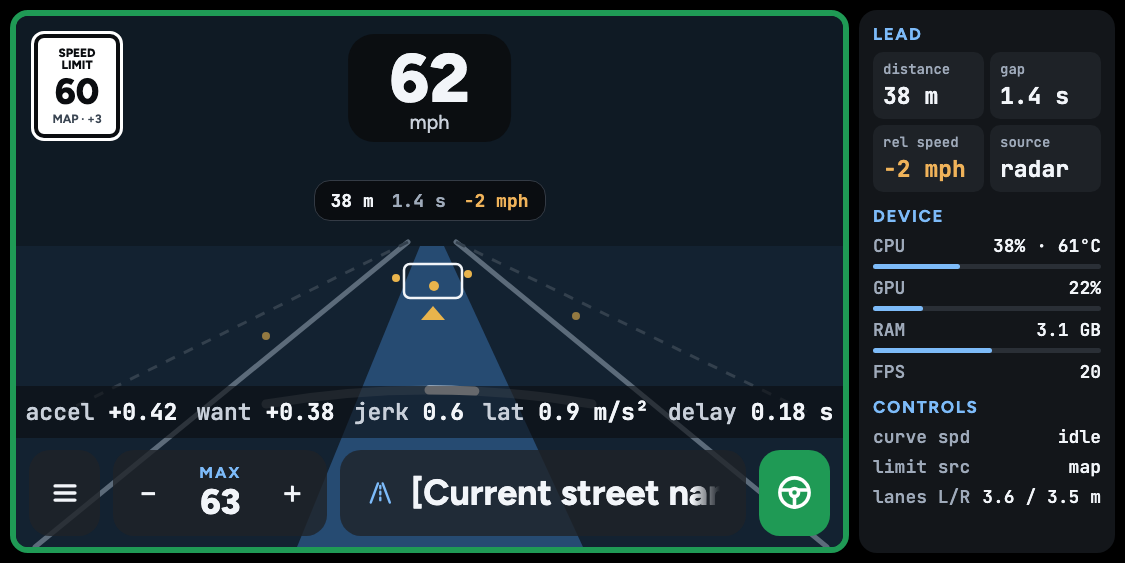
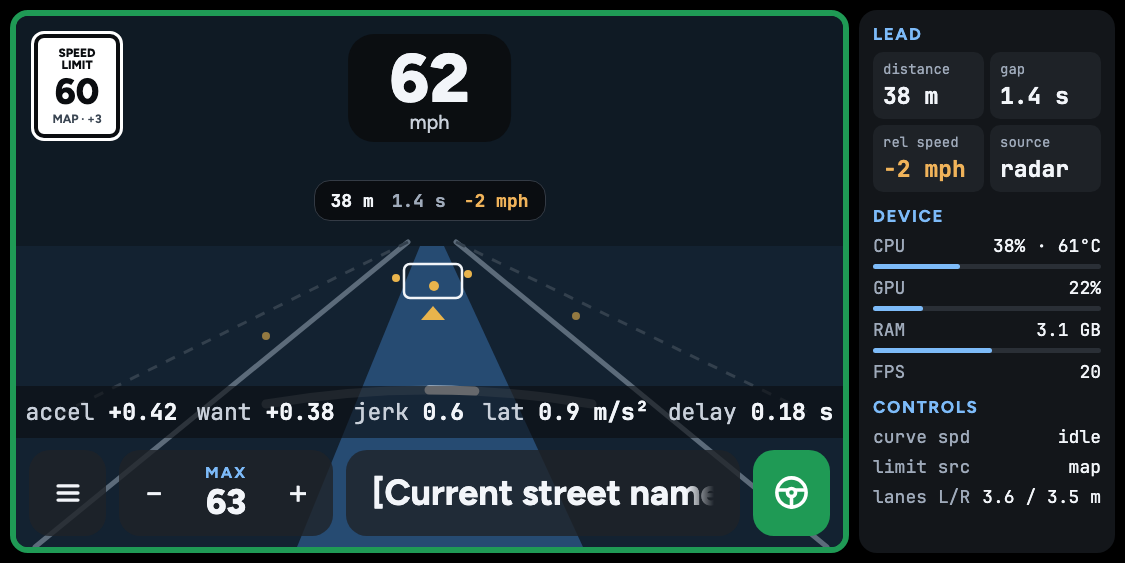
Give driving street names more room

diff --git a/selfdrive/ui/tandem/design/onroadwhereto.html b/selfdrive/ui/tandem/design/onroadwhereto.html
@@ -21,7 +21,7 @@ body{margin:0}
   <div style="background: #13161A; border-radius: 22px; padding: 18px 20px 20px; display: flex; flex-direction: column; gap: 12px;">
     <span style="font-size: 13px; font-weight: 700; letter-spacing: 1.6px; color: #7DBBF9;">NO ROUTE</span>
     <div style="height: 150px; border-radius: 16px; background: linear-gradient(#0F1A24, #14202C); position: relative; overflow: hidden; border: 5px solid #1F9A55;">
-      <div style="position: absolute; left: 0; right: 0; bottom: 0; height: 92px; display: flex; align-items: center; gap: 12px; padding: 0 14px;"><button type="button" aria-label="Menu" style="flex-shrink: 0; width: 74px; height: 74px; border-radius: 18px; border: 0; background: #1F2328CC; display: flex; align-items: center; justify-content: center;"><svg width="28" height="28" viewBox="0 0 24 24" fill="none" stroke="#F2F5F9" stroke-width="2.4" stroke-linecap="round" aria-hidden="true"><path d="M5 7h14M5 12h14M5 17h14"></path></svg></button><div style="flex-shrink: 0; height: 74px; border-radius: 18px; background: #1F2328CC; display: flex; align-items: center; gap: 4px; padding: 0 6px;"><span style="width: 52px; text-align: center; font-size: 28px;">−</span><div style="width: 70px; display: flex; flex-direction: column; align-items: center; line-height: 1;"><span style="font-size: 12px; font-weight: 700; letter-spacing: 1.4px; color: #7DBBF9;">MAX</span><span style="font-size: 30px; font-weight: 800; margin-top: 3px;">48</span></div><span style="width: 52px; text-align: center; font-size: 28px;">+</span></div><button type="button" aria-label="Where to?" style="flex-shrink: 0; width: 74px; height: 74px; border-radius: 18px; border: 0; background: #1F2E45; display: flex; align-items: center; justify-content: center;"><svg width="28" height="28" viewBox="0 0 24 24" fill="none" stroke="#7DBBF9" stroke-width="2.2" stroke-linecap="round" stroke-linejoin="round" aria-hidden="true"><path d="M3 11l18-8-8 18-2-8z"></path></svg></button><div style="flex-grow: 1; min-width: 0; height: 74px; border-radius: 18px; background: #1F2328CC; display: flex; align-items: center; gap: 14px; padding: 0 20px;"><span style="font-size: 22px; font-weight: 800; letter-spacing: 1px; color: #7DBBF9; background: #1F2E45; border-radius: 10px; padding: 6px 11px;">NE</span><span style="flex-grow: 1; display: flex; align-items: center; justify-content: center; gap: 12px;"><svg width="22" height="22" viewBox="0 0 24 24" fill="none" stroke="#7DBBF9" stroke-width="2" stroke-linecap="round" stroke-linejoin="round" aria-hidden="true"><path d="M4 20L10 4M20 20L14 4M12 6v2M12 11v2M12 16v2"></path></svg><span style="font-size: 22px; font-weight: 700;">N Main St</span></span><span style="display: flex; align-items: center; gap: 8px; font-size: 22px; font-weight: 700;"><svg width="24" height="24" viewBox="0 0 24 24" fill="none" stroke="#C9D0DA" stroke-width="2" stroke-linecap="round" stroke-linejoin="round" aria-hidden="true"><path d="M7 18a4 4 0 1 1 .9-7.9A5 5 0 0 1 17.5 12a3.5 3.5 0 0 1-.5 6z"></path></svg>52°</span></div><button type="button" aria-label="Disengage" style="flex-shrink: 0; width: 74px; height: 74px; border-radius: 18px; border: 0; background: #1F9A55; display: flex; align-items: center; justify-content: center;"><svg width="32" height="32" viewBox="0 0 24 24" fill="none" stroke="#FFFFFF" stroke-width="2.2" stroke-linecap="round" stroke-linejoin="round" aria-hidden="true"><circle cx="12" cy="12" r="9"></circle><circle cx="12" cy="12" r="2.5"></circle><path d="M3.5 10.5h6M14.5 10.5h6M12 14.5V21"></path></svg></button></div>
+      <div style="position: absolute; left: 0; right: 0; bottom: 0; height: 92px; display: flex; align-items: center; gap: 12px; padding: 0 14px;"><button type="button" aria-label="Menu" style="flex-shrink: 0; width: 74px; height: 74px; border-radius: 18px; border: 0; background: #1F2328CC; display: flex; align-items: center; justify-content: center;"><svg width="28" height="28" viewBox="0 0 24 24" fill="none" stroke="#F2F5F9" stroke-width="2.4" stroke-linecap="round" aria-hidden="true"><path d="M5 7h14M5 12h14M5 17h14"></path></svg></button><div style="flex-shrink: 0; height: 74px; border-radius: 18px; background: #1F2328CC; display: flex; align-items: center; gap: 4px; padding: 0 6px;"><span style="width: 52px; text-align: center; font-size: 28px;">−</span><div style="width: 70px; display: flex; flex-direction: column; align-items: center; line-height: 1;"><span style="font-size: 12px; font-weight: 700; letter-spacing: 1.4px; color: #7DBBF9;">MAX</span><span style="font-size: 30px; font-weight: 800; margin-top: 3px;">48</span></div><span style="width: 52px; text-align: center; font-size: 28px;">+</span></div><button type="button" aria-label="Where to?" style="flex-shrink: 0; width: 74px; height: 74px; border-radius: 18px; border: 0; background: #1F2E45; display: flex; align-items: center; justify-content: center;"><svg width="28" height="28" viewBox="0 0 24 24" fill="none" stroke="#7DBBF9" stroke-width="2.2" stroke-linecap="round" stroke-linejoin="round" aria-hidden="true"><path d="M3 11l18-8-8 18-2-8z"></path></svg></button><div style="flex-grow: 1; min-width: 0; height: 74px; border-radius: 18px; background: #1F2328CC; display: flex; align-items: center; gap: 14px; padding: 0 20px;"><span style="font-size: 22px; font-weight: 800; letter-spacing: 1px; color: #7DBBF9; background: #1F2E45; border-radius: 10px; padding: 6px 11px;">NE</span><span style="flex-grow: 1; display: flex; align-items: center; justify-content: center; gap: 12px;"><span style="font-size: 22px; font-weight: 700;">N Main St</span></span><span style="display: flex; align-items: center; gap: 8px; font-size: 22px; font-weight: 700;"><svg width="24" height="24" viewBox="0 0 24 24" fill="none" stroke="#C9D0DA" stroke-width="2" stroke-linecap="round" stroke-linejoin="round" aria-hidden="true"><path d="M7 18a4 4 0 1 1 .9-7.9A5 5 0 0 1 17.5 12a3.5 3.5 0 0 1-.5 6z"></path></svg>52°</span></div><button type="button" aria-label="Disengage" style="flex-shrink: 0; width: 74px; height: 74px; border-radius: 18px; border: 0; background: #1F9A55; display: flex; align-items: center; justify-content: center;"><svg width="32" height="32" viewBox="0 0 24 24" fill="none" stroke="#FFFFFF" stroke-width="2.2" stroke-linecap="round" stroke-linejoin="round" aria-hidden="true"><circle cx="12" cy="12" r="9"></circle><circle cx="12" cy="12" r="2.5"></circle><path d="M3.5 10.5h6M14.5 10.5h6M12 14.5V21"></path></svg></button></div>
     </div>
     <span style="font-size: 15px; color: #C9D0DA;">Tap to search a place, pick Home, Work or a favorite, or say it with voice typing. The compass, street and temperature keep their places.</span>
   </div>
@@ -29,7 +29,7 @@ body{margin:0}
   <div style="background: #13161A; border-radius: 22px; padding: 18px 20px 20px; display: flex; flex-direction: column; gap: 12px;">
     <span style="font-size: 13px; font-weight: 700; letter-spacing: 1.6px; color: #7DBBF9;">NAVIGATING</span>
     <div style="height: 150px; border-radius: 16px; background: linear-gradient(#0F1A24, #14202C); position: relative; overflow: hidden; border: 5px solid #1F9A55;">
-      <div style="position: absolute; left: 0; right: 0; bottom: 0; height: 92px; display: flex; align-items: center; gap: 12px; padding: 0 14px;"><button type="button" aria-label="Menu" style="flex-shrink: 0; width: 74px; height: 74px; border-radius: 18px; border: 0; background: #1F2328CC; display: flex; align-items: center; justify-content: center;"><svg width="28" height="28" viewBox="0 0 24 24" fill="none" stroke="#F2F5F9" stroke-width="2.4" stroke-linecap="round" aria-hidden="true"><path d="M5 7h14M5 12h14M5 17h14"></path></svg></button><div style="flex-shrink: 0; height: 74px; border-radius: 18px; background: #1F2328CC; display: flex; align-items: center; gap: 4px; padding: 0 6px;"><span style="width: 52px; text-align: center; font-size: 28px;">−</span><div style="width: 70px; display: flex; flex-direction: column; align-items: center; line-height: 1;"><span style="font-size: 12px; font-weight: 700; letter-spacing: 1.4px; color: #7DBBF9;">MAX</span><span style="font-size: 30px; font-weight: 800; margin-top: 3px;">48</span></div><span style="width: 52px; text-align: center; font-size: 28px;">+</span></div><div style="flex-grow: 1; min-width: 0; height: 74px; border-radius: 18px; background: #1F2328CC; display: flex; align-items: center; gap: 22px; padding: 0 12px 0 20px;"><span style="font-size: 22px; font-weight: 800; letter-spacing: 1px; color: #7DBBF9; background: #1F2E45; border-radius: 10px; padding: 6px 11px;">NE</span><div style="display: flex; flex-direction: column; gap: 2px;"><span style="font-size: 12px; font-weight: 700; letter-spacing: 1.4px; color: #8FA0B5;">ARRIVE</span><span style="font-size: 22px; font-weight: 700;">4:52 PM</span></div><div style="display: flex; flex-direction: column; gap: 2px;"><span style="font-size: 12px; font-weight: 700; letter-spacing: 1.4px; color: #8FA0B5;">LEFT</span><span style="font-size: 22px; font-weight: 700;">12 min · 8.4 mi</span></div><span style="width: 2px; height: 36px; background: #2A2F36;"></span><span style="flex-grow: 1; display: flex; align-items: center; gap: 12px; min-width: 0;"><svg width="22" height="22" viewBox="0 0 24 24" fill="none" stroke="#7DBBF9" stroke-width="2" stroke-linecap="round" stroke-linejoin="round" aria-hidden="true"><path d="M4 20L10 4M20 20L14 4M12 6v2M12 11v2M12 16v2"></path></svg><span style="font-size: 22px; font-weight: 700; white-space: nowrap; overflow: hidden; text-overflow: ellipsis;">SE Hawthorne Blvd</span></span><span style="height: 52px; padding: 0 18px; border-radius: 14px; background: #3A1D22; color: #FF9AA2; font-size: 17px; font-weight: 700; display: flex; align-items: center;">End route</span></div><button type="button" aria-label="Disengage" style="flex-shrink: 0; width: 74px; height: 74px; border-radius: 18px; border: 0; background: #1F9A55; display: flex; align-items: center; justify-content: center;"><svg width="32" height="32" viewBox="0 0 24 24" fill="none" stroke="#FFFFFF" stroke-width="2.2" stroke-linecap="round" stroke-linejoin="round" aria-hidden="true"><circle cx="12" cy="12" r="9"></circle><circle cx="12" cy="12" r="2.5"></circle><path d="M3.5 10.5h6M14.5 10.5h6M12 14.5V21"></path></svg></button></div>
+      <div style="position: absolute; left: 0; right: 0; bottom: 0; height: 92px; display: flex; align-items: center; gap: 12px; padding: 0 14px;"><button type="button" aria-label="Menu" style="flex-shrink: 0; width: 74px; height: 74px; border-radius: 18px; border: 0; background: #1F2328CC; display: flex; align-items: center; justify-content: center;"><svg width="28" height="28" viewBox="0 0 24 24" fill="none" stroke="#F2F5F9" stroke-width="2.4" stroke-linecap="round" aria-hidden="true"><path d="M5 7h14M5 12h14M5 17h14"></path></svg></button><div style="flex-shrink: 0; height: 74px; border-radius: 18px; background: #1F2328CC; display: flex; align-items: center; gap: 4px; padding: 0 6px;"><span style="width: 52px; text-align: center; font-size: 28px;">−</span><div style="width: 70px; display: flex; flex-direction: column; align-items: center; line-height: 1;"><span style="font-size: 12px; font-weight: 700; letter-spacing: 1.4px; color: #7DBBF9;">MAX</span><span style="font-size: 30px; font-weight: 800; margin-top: 3px;">48</span></div><span style="width: 52px; text-align: center; font-size: 28px;">+</span></div><div style="flex-grow: 1; min-width: 0; height: 74px; border-radius: 18px; background: #1F2328CC; display: flex; align-items: center; gap: 22px; padding: 0 12px 0 20px;"><span style="font-size: 22px; font-weight: 800; letter-spacing: 1px; color: #7DBBF9; background: #1F2E45; border-radius: 10px; padding: 6px 11px;">NE</span><div style="display: flex; flex-direction: column; gap: 2px;"><span style="font-size: 12px; font-weight: 700; letter-spacing: 1.4px; color: #8FA0B5;">ARRIVE</span><span style="font-size: 22px; font-weight: 700;">4:52 PM</span></div><div style="display: flex; flex-direction: column; gap: 2px;"><span style="font-size: 12px; font-weight: 700; letter-spacing: 1.4px; color: #8FA0B5;">LEFT</span><span style="font-size: 22px; font-weight: 700;">12 min · 8.4 mi</span></div><span style="width: 2px; height: 36px; background: #2A2F36;"></span><span style="flex-grow: 1; display: flex; align-items: center; gap: 12px; min-width: 0;"><span style="font-size: 22px; font-weight: 700; white-space: nowrap; overflow: hidden; text-overflow: ellipsis;">SE Hawthorne Blvd</span></span><span style="height: 52px; padding: 0 18px; border-radius: 14px; background: #3A1D22; color: #FF9AA2; font-size: 17px; font-weight: 700; display: flex; align-items: center;">End route</span></div><button type="button" aria-label="Disengage" style="flex-shrink: 0; width: 74px; height: 74px; border-radius: 18px; border: 0; background: #1F9A55; display: flex; align-items: center; justify-content: center;"><svg width="32" height="32" viewBox="0 0 24 24" fill="none" stroke="#FFFFFF" stroke-width="2.2" stroke-linecap="round" stroke-linejoin="round" aria-hidden="true"><circle cx="12" cy="12" r="9"></circle><circle cx="12" cy="12" r="2.5"></circle><path d="M3.5 10.5h6M14.5 10.5h6M12 14.5V21"></path></svg></button></div>
     </div>
     <span style="font-size: 15px; color: #C9D0DA;">No Where to? button while navigating: the bar keeps its room for arrival, time left, the street and End route.</span>
   </div>

diff --git a/selfdrive/ui/tandem/design/onroadnav.html b/selfdrive/ui/tandem/design/onroadnav.html
@@ -71,7 +71,7 @@ a{color:#7DBBF9}a:hover{color:#A9D3FB}
         <div style="display: flex; flex-direction: column; gap: 3px; flex-shrink: 0; white-space: nowrap;"><span style="font-size: 12px; font-weight: 700; letter-spacing: 1.4px; color: #8FA0B5;">ARRIVE</span><span style="font-size: 22px; font-weight: 700;">[ETA]</span></div>
         <div style="display: flex; flex-direction: column; gap: 3px; flex-shrink: 0; white-space: nowrap;"><span style="font-size: 12px; font-weight: 700; letter-spacing: 1.4px; color: #8FA0B5;">LEFT</span><span style="font-size: 22px; font-weight: 700;">[min] · [mi]</span></div>
         <div style="width: 2px; height: 37px; background: #23272E; flex-shrink: 0;"></div>
-        <div style="flex-grow: 1; min-width: 0; display: flex; align-items: center; gap: 12px;"><svg width="28" height="28" viewBox="0 0 24 24" fill="none" stroke="#7DBBF9" stroke-width="2" stroke-linecap="round" stroke-linejoin="round" aria-hidden="true" style="flex-shrink: 0;"><path d="M4 20L10 4M20 20L14 4M12 6v2M12 11v2M12 16v2"></path></svg><span class="street" style="font-size: 28px; font-weight: 700;"><span>[Current street name]</span></span></div>
+        <div style="flex-grow: 1; min-width: 0; display: flex; align-items: center; gap: 12px;"><span class="street" style="font-size: 28px; font-weight: 700;"><span>[Current street name]</span></span></div>
         <a href="destinations.html" style="flex-shrink: 0; white-space: nowrap; text-decoration: none; height: 52px; padding: 0 20px; border-radius: 14px; background: #3A2026; color: #F2A7B1; font-size: 17px; font-weight: 700; display: flex; align-items: center;">End route</a>
       </div>
       <button type="button" aria-label="Disengage" style="flex-shrink: 0; width: 74px; height: 74px; border-radius: 18px; border: 0; background: #1F9A55; display: flex; align-items: center; justify-content: center;"><svg width="32" height="32" viewBox="0 0 24 24" fill="none" stroke="#FFFFFF" stroke-width="2.2" stroke-linecap="round" stroke-linejoin="round" aria-hidden="true"><circle cx="12" cy="12" r="9"></circle><circle cx="12" cy="12" r="2.5"></circle><path d="M3.5 10.5h6M14.5 10.5h6M12 14.5V21"></path></svg></button>

diff --git a/selfdrive/ui/tandem/design/valhalla-onroad-fresh.html b/selfdrive/ui/tandem/design/valhalla-onroad-fresh.html
@@ -61,7 +61,7 @@ a{color:#7DBBF9}a:hover{color:#A9D3FB}
         <div style="display: flex; flex-direction: column; gap: 3px;"><span style="font-size: 12px; font-weight: 700; letter-spacing: 1.4px; color: #8FA0B5;">ARRIVE</span><span style="font-size: 22px; font-weight: 700;">5:18 PM</span></div>
         <div style="display: flex; flex-direction: column; gap: 3px;"><span style="font-size: 12px; font-weight: 700; letter-spacing: 1.4px; color: #8FA0B5;">LEFT</span><span style="font-size: 22px; font-weight: 700;">12 min · 8.4 mi</span></div>
         <div style="width: 2px; height: 37px; background: #23272E; flex-shrink: 0;"></div>
-        <div style="flex-grow: 1; min-width: 0; display: flex; align-items: center; gap: 12px;"><svg width="22" height="22" viewBox="0 0 24 24" fill="none" stroke="#7DBBF9" stroke-width="2" stroke-linecap="round" stroke-linejoin="round" aria-hidden="true" style="flex-shrink: 0;"><path d="M4 20L10 4M20 20L14 4M12 6v2M12 11v2M12 16v2"></path></svg><span style="font-size: 22px; font-weight: 700; white-space: nowrap; overflow: hidden; text-overflow: ellipsis;">Market Street</span></div>
+        <div style="flex-grow: 1; min-width: 0; display: flex; align-items: center; gap: 12px;"><span style="font-size: 22px; font-weight: 700; white-space: nowrap; overflow: hidden; text-overflow: ellipsis;">Market Street</span></div>
         <a href="destinations.html" style="text-decoration: none; height: 52px; padding: 0 20px; border-radius: 14px; background: #3A2026; color: #F2A7B1; font-size: 17px; font-weight: 700; display: flex; align-items: center;">End route</a>
       </div>
       <button type="button" aria-label="Disengage" style="width: 74px; height: 74px; border-radius: 18px; border: 0; background: #1F9A55; display: flex; align-items: center; justify-content: center;"><svg width="32" height="32" viewBox="0 0 24 24" fill="none" stroke="#FFFFFF" stroke-width="2.2" stroke-linecap="round" stroke-linejoin="round" aria-hidden="true"><circle cx="12" cy="12" r="9"></circle><circle cx="12" cy="12" r="2.5"></circle><path d="M3.5 10.5h6M14.5 10.5h6M12 14.5V21"></path></svg></button>

diff --git a/selfdrive/ui/tandem/design/valhalla-onroad-stale-card.html b/selfdrive/ui/tandem/design/valhalla-onroad-stale-card.html
@@ -54,7 +54,7 @@ a{color:#7DBBF9}a:hover{color:#A9D3FB}
         <div style="display: flex; flex-direction: column; gap: 3px;"><span style="font-size: 12px; font-weight: 700; letter-spacing: 1.4px; color: #8FA0B5;">ARRIVE</span><span style="font-size: 22px; font-weight: 700;">5:18 PM</span></div>
         <div style="display: flex; flex-direction: column; gap: 3px;"><span style="font-size: 12px; font-weight: 700; letter-spacing: 1.4px; color: #8FA0B5;">LEFT</span><span style="font-size: 22px; font-weight: 700;">12 min · 8.4 mi</span></div>
         <div style="width: 2px; height: 37px; background: #23272E; flex-shrink: 0;"></div>
-        <div style="flex-grow: 1; min-width: 0; display: flex; align-items: center; gap: 12px;"><svg width="22" height="22" viewBox="0 0 24 24" fill="none" stroke="#7DBBF9" stroke-width="2" stroke-linecap="round" stroke-linejoin="round" aria-hidden="true" style="flex-shrink: 0;"><path d="M4 20L10 4M20 20L14 4M12 6v2M12 11v2M12 16v2"></path></svg><span style="font-size: 22px; font-weight: 700; white-space: nowrap; overflow: hidden; text-overflow: ellipsis;">Market Street</span></div>
+        <div style="flex-grow: 1; min-width: 0; display: flex; align-items: center; gap: 12px;"><span style="font-size: 22px; font-weight: 700; white-space: nowrap; overflow: hidden; text-overflow: ellipsis;">Market Street</span></div>
         <a href="destinations.html" style="text-decoration: none; height: 52px; padding: 0 20px; border-radius: 14px; background: #3A2026; color: #F2A7B1; font-size: 17px; font-weight: 700; display: flex; align-items: center;">End route</a>
       </div>
       <button type="button" aria-label="Disengage" style="width: 74px; height: 74px; border-radius: 18px; border: 0; background: #1F9A55; display: flex; align-items: center; justify-content: center;"><svg width="32" height="32" viewBox="0 0 24 24" fill="none" stroke="#FFFFFF" stroke-width="2.2" stroke-linecap="round" stroke-linejoin="round" aria-hidden="true"><circle cx="12" cy="12" r="9"></circle><circle cx="12" cy="12" r="2.5"></circle><path d="M3.5 10.5h6M14.5 10.5h6M12 14.5V21"></path></svg></button>

diff --git a/selfdrive/ui/tandem/design/valhalla2-chip-gps.html b/selfdrive/ui/tandem/design/valhalla2-chip-gps.html
@@ -55,7 +55,7 @@ a{color:#7DBBF9}a:hover{color:#A9D3FB}
         <div style="display: flex; flex-direction: column; gap: 3px;"><span style="font-size: 12px; font-weight: 700; letter-spacing: 1.4px; color: #8FA0B5;">ARRIVE</span><span style="font-size: 22px; font-weight: 700;">5:18 PM</span></div>
         <div style="display: flex; flex-direction: column; gap: 3px;"><span style="font-size: 12px; font-weight: 700; letter-spacing: 1.4px; color: #8FA0B5;">LEFT</span><span style="font-size: 22px; font-weight: 700;">12 min · 8.4 mi</span></div>
         <div style="width: 2px; height: 37px; background: #23272E; flex-shrink: 0;"></div>
-        <div style="flex-grow: 1; min-width: 0; display: flex; align-items: center; gap: 12px;"><svg width="22" height="22" viewBox="0 0 24 24" fill="none" stroke="#7DBBF9" stroke-width="2" stroke-linecap="round" stroke-linejoin="round" aria-hidden="true" style="flex-shrink: 0;"><path d="M4 20L10 4M20 20L14 4M12 6v2M12 11v2M12 16v2"></path></svg><span style="font-size: 22px; font-weight: 700; white-space: nowrap; overflow: hidden; text-overflow: ellipsis;">Market Street</span></div>
+        <div style="flex-grow: 1; min-width: 0; display: flex; align-items: center; gap: 12px;"><span style="font-size: 22px; font-weight: 700; white-space: nowrap; overflow: hidden; text-overflow: ellipsis;">Market Street</span></div>
         <a href="destinations.html" style="text-decoration: none; height: 52px; padding: 0 20px; border-radius: 14px; background: #3A2026; color: #F2A7B1; font-size: 17px; font-weight: 700; display: flex; align-items: center;">End route</a>
       </div>
       <button type="button" aria-label="Disengage" style="width: 74px; height: 74px; border-radius: 18px; border: 0; background: #1F9A55; display: flex; align-items: center; justify-content: center;"><svg width="32" height="32" viewBox="0 0 24 24" fill="none" stroke="#FFFFFF" stroke-width="2.2" stroke-linecap="round" stroke-linejoin="round" aria-hidden="true"><circle cx="12" cy="12" r="9"></circle><circle cx="12" cy="12" r="2.5"></circle><path d="M3.5 10.5h6M14.5 10.5h6M12 14.5V21"></path></svg></button>

diff --git a/selfdrive/ui/tandem/design/valhalla2-chip-offline-fallback.html b/selfdrive/ui/tandem/design/valhalla2-chip-offline-fallback.html
@@ -62,7 +62,7 @@ a{color:#7DBBF9}a:hover{color:#A9D3FB}
         <div style="display: flex; flex-direction: column; gap: 3px;"><span style="font-size: 12px; font-weight: 700; letter-spacing: 1.4px; color: #8FA0B5;">ARRIVE</span><span style="font-size: 22px; font-weight: 700;">5:18 PM</span></div>
         <div style="display: flex; flex-direction: column; gap: 3px;"><span style="font-size: 12px; font-weight: 700; letter-spacing: 1.4px; color: #8FA0B5;">LEFT</span><span style="font-size: 22px; font-weight: 700;">12 min · 8.4 mi</span></div>
         <div style="width: 2px; height: 37px; background: #23272E; flex-shrink: 0;"></div>
-        <div style="flex-grow: 1; min-width: 0; display: flex; align-items: center; gap: 12px;"><svg width="22" height="22" viewBox="0 0 24 24" fill="none" stroke="#7DBBF9" stroke-width="2" stroke-linecap="round" stroke-linejoin="round" aria-hidden="true" style="flex-shrink: 0;"><path d="M4 20L10 4M20 20L14 4M12 6v2M12 11v2M12 16v2"></path></svg><span style="font-size: 22px; font-weight: 700; white-space: nowrap; overflow: hidden; text-overflow: ellipsis;">Market Street</span></div>
+        <div style="flex-grow: 1; min-width: 0; display: flex; align-items: center; gap: 12px;"><span style="font-size: 22px; font-weight: 700; white-space: nowrap; overflow: hidden; text-overflow: ellipsis;">Market Street</span></div>
         <a href="destinations.html" style="text-decoration: none; height: 52px; padding: 0 20px; border-radius: 14px; background: #3A2026; color: #F2A7B1; font-size: 17px; font-weight: 700; display: flex; align-items: center;">End route</a>
       </div>
       <button type="button" aria-label="Disengage" style="width: 74px; height: 74px; border-radius: 18px; border: 0; background: #1F9A55; display: flex; align-items: center; justify-content: center;"><svg width="32" height="32" viewBox="0 0 24 24" fill="none" stroke="#FFFFFF" stroke-width="2.2" stroke-linecap="round" stroke-linejoin="round" aria-hidden="true"><circle cx="12" cy="12" r="9"></circle><circle cx="12" cy="12" r="2.5"></circle><path d="M3.5 10.5h6M14.5 10.5h6M12 14.5V21"></path></svg></button>

diff --git a/selfdrive/ui/tandem/design/valhalla2-chip-online-fallback.html b/selfdrive/ui/tandem/design/valhalla2-chip-online-fallback.html
@@ -62,7 +62,7 @@ a{color:#7DBBF9}a:hover{color:#A9D3FB}
         <div style="display: flex; flex-direction: column; gap: 3px;"><span style="font-size: 12px; font-weight: 700; letter-spacing: 1.4px; color: #8FA0B5;">ARRIVE</span><span style="font-size: 22px; font-weight: 700;">5:18 PM</span></div>
         <div style="display: flex; flex-direction: column; gap: 3px;"><span style="font-size: 12px; font-weight: 700; letter-spacing: 1.4px; color: #8FA0B5;">LEFT</span><span style="font-size: 22px; font-weight: 700;">12 min · 8.4 mi</span></div>
         <div style="width: 2px; height: 37px; background: #23272E; flex-shrink: 0;"></div>
-        <div style="flex-grow: 1; min-width: 0; display: flex; align-items: center; gap: 12px;"><svg width="22" height="22" viewBox="0 0 24 24" fill="none" stroke="#7DBBF9" stroke-width="2" stroke-linecap="round" stroke-linejoin="round" aria-hidden="true" style="flex-shrink: 0;"><path d="M4 20L10 4M20 20L14 4M12 6v2M12 11v2M12 16v2"></path></svg><span style="font-size: 22px; font-weight: 700; white-space: nowrap; overflow: hidden; text-overflow: ellipsis;">Market Street</span></div>
+        <div style="flex-grow: 1; min-width: 0; display: flex; align-items: center; gap: 12px;"><span style="font-size: 22px; font-weight: 700; white-space: nowrap; overflow: hidden; text-overflow: ellipsis;">Market Street</span></div>
         <a href="destinations.html" style="text-decoration: none; height: 52px; padding: 0 20px; border-radius: 14px; background: #3A2026; color: #F2A7B1; font-size: 17px; font-weight: 700; display: flex; align-items: center;">End route</a>
       </div>
       <button type="button" aria-label="Disengage" style="width: 74px; height: 74px; border-radius: 18px; border: 0; background: #1F9A55; display: flex; align-items: center; justify-content: center;"><svg width="32" height="32" viewBox="0 0 24 24" fill="none" stroke="#FFFFFF" stroke-width="2.2" stroke-linecap="round" stroke-linejoin="round" aria-hidden="true"><circle cx="12" cy="12" r="9"></circle><circle cx="12" cy="12" r="2.5"></circle><path d="M3.5 10.5h6M14.5 10.5h6M12 14.5V21"></path></svg></button>

diff --git a/selfdrive/ui/tandem/design/valhalla2-chip-recalculate.html b/selfdrive/ui/tandem/design/valhalla2-chip-recalculate.html
@@ -55,7 +55,7 @@ a{color:#7DBBF9}a:hover{color:#A9D3FB}
         <div style="display: flex; flex-direction: column; gap: 3px;"><span style="font-size: 12px; font-weight: 700; letter-spacing: 1.4px; color: #8FA0B5;">ARRIVE</span><span style="font-size: 22px; font-weight: 700;">5:18 PM</span></div>
         <div style="display: flex; flex-direction: column; gap: 3px;"><span style="font-size: 12px; font-weight: 700; letter-spacing: 1.4px; color: #8FA0B5;">LEFT</span><span style="font-size: 22px; font-weight: 700;">12 min · 8.4 mi</span></div>
         <div style="width: 2px; height: 37px; background: #23272E; flex-shrink: 0;"></div>
-        <div style="flex-grow: 1; min-width: 0; display: flex; align-items: center; gap: 12px;"><svg width="22" height="22" viewBox="0 0 24 24" fill="none" stroke="#7DBBF9" stroke-width="2" stroke-linecap="round" stroke-linejoin="round" aria-hidden="true" style="flex-shrink: 0;"><path d="M4 20L10 4M20 20L14 4M12 6v2M12 11v2M12 16v2"></path></svg><span style="font-size: 22px; font-weight: 700; white-space: nowrap; overflow: hidden; text-overflow: ellipsis;">Market Street</span></div>
+        <div style="flex-grow: 1; min-width: 0; display: flex; align-items: center; gap: 12px;"><span style="font-size: 22px; font-weight: 700; white-space: nowrap; overflow: hidden; text-overflow: ellipsis;">Market Street</span></div>
         <a href="destinations.html" style="text-decoration: none; height: 52px; padding: 0 20px; border-radius: 14px; background: #3A2026; color: #F2A7B1; font-size: 17px; font-weight: 700; display: flex; align-items: center;">End route</a>
       </div>
       <button type="button" aria-label="Disengage" style="width: 74px; height: 74px; border-radius: 18px; border: 0; background: #1F9A55; display: flex; align-items: center; justify-content: center;"><svg width="32" height="32" viewBox="0 0 24 24" fill="none" stroke="#FFFFFF" stroke-width="2.2" stroke-linecap="round" stroke-linejoin="round" aria-hidden="true"><circle cx="12" cy="12" r="9"></circle><circle cx="12" cy="12" r="2.5"></circle><path d="M3.5 10.5h6M14.5 10.5h6M12 14.5V21"></path></svg></button>

diff --git a/selfdrive/ui/tandem/design/valhalla2-chip-stack.html b/selfdrive/ui/tandem/design/valhalla2-chip-stack.html
@@ -55,7 +55,7 @@ a{color:#7DBBF9}a:hover{color:#A9D3FB}
         <div style="display: flex; flex-direction: column; gap: 3px;"><span style="font-size: 12px; font-weight: 700; letter-spacing: 1.4px; color: #8FA0B5;">ARRIVE</span><span style="font-size: 22px; font-weight: 700;">5:18 PM</span></div>
         <div style="display: flex; flex-direction: column; gap: 3px;"><span style="font-size: 12px; font-weight: 700; letter-spacing: 1.4px; color: #8FA0B5;">LEFT</span><span style="font-size: 22px; font-weight: 700;">12 min · 8.4 mi</span></div>
         <div style="width: 2px; height: 37px; background: #23272E; flex-shrink: 0;"></div>
-        <div style="flex-grow: 1; min-width: 0; display: flex; align-items: center; gap: 12px;"><svg width="22" height="22" viewBox="0 0 24 24" fill="none" stroke="#7DBBF9" stroke-width="2" stroke-linecap="round" stroke-linejoin="round" aria-hidden="true" style="flex-shrink: 0;"><path d="M4 20L10 4M20 20L14 4M12 6v2M12 11v2M12 16v2"></path></svg><span style="font-size: 22px; font-weight: 700; white-space: nowrap; overflow: hidden; text-overflow: ellipsis;">Market Street</span></div>
+        <div style="flex-grow: 1; min-width: 0; display: flex; align-items: center; gap: 12px;"><span style="font-size: 22px; font-weight: 700; white-space: nowrap; overflow: hidden; text-overflow: ellipsis;">Market Street</span></div>
         <a href="destinations.html" style="text-decoration: none; height: 52px; padding: 0 20px; border-radius: 14px; background: #3A2026; color: #F2A7B1; font-size: 17px; font-weight: 700; display: flex; align-items: center;">End route</a>
       </div>
       <button type="button" aria-label="Disengage" style="width: 74px; height: 74px; border-radius: 18px; border: 0; background: #1F9A55; display: flex; align-items: center; justify-content: center;"><svg width="32" height="32" viewBox="0 0 24 24" fill="none" stroke="#FFFFFF" stroke-width="2.2" stroke-linecap="round" stroke-linejoin="round" aria-hidden="true"><circle cx="12" cy="12" r="9"></circle><circle cx="12" cy="12" r="2.5"></circle><path d="M3.5 10.5h6M14.5 10.5h6M12 14.5V21"></path></svg></button>

diff --git a/selfdrive/ui/tandem/design/valhalla2-chip-first-route.html b/selfdrive/ui/tandem/design/valhalla2-chip-first-route.html
@@ -55,7 +55,7 @@ a{color:#7DBBF9}a:hover{color:#A9D3FB}
         <div style="display: flex; flex-direction: column; gap: 3px;"><span style="font-size: 12px; font-weight: 700; letter-spacing: 1.4px; color: #8FA0B5;">ARRIVE</span><span style="font-size: 22px; font-weight: 700;">–</span></div>
         <div style="display: flex; flex-direction: column; gap: 3px;"><span style="font-size: 12px; font-weight: 700; letter-spacing: 1.4px; color: #8FA0B5;">LEFT</span><span style="font-size: 22px; font-weight: 700;">–</span></div>
         <div style="width: 2px; height: 37px; background: #23272E; flex-shrink: 0;"></div>
-        <div style="flex-grow: 1; min-width: 0; display: flex; align-items: center; gap: 12px;"><svg width="22" height="22" viewBox="0 0 24 24" fill="none" stroke="#7DBBF9" stroke-width="2" stroke-linecap="round" stroke-linejoin="round" aria-hidden="true" style="flex-shrink: 0;"><path d="M4 20L10 4M20 20L14 4M12 6v2M12 11v2M12 16v2"></path></svg><span style="font-size: 22px; font-weight: 700; white-space: nowrap; overflow: hidden; text-overflow: ellipsis;">Market Street</span></div>
+        <div style="flex-grow: 1; min-width: 0; display: flex; align-items: center; gap: 12px;"><span style="font-size: 22px; font-weight: 700; white-space: nowrap; overflow: hidden; text-overflow: ellipsis;">Market Street</span></div>
         <a href="destinations.html" style="text-decoration: none; height: 52px; padding: 0 20px; border-radius: 14px; background: #3A2026; color: #F2A7B1; font-size: 17px; font-weight: 700; display: flex; align-items: center;">End route</a>
       </div>
       <button type="button" aria-label="Disengage" style="width: 74px; height: 74px; border-radius: 18px; border: 0; background: #1F9A55; display: flex; align-items: center; justify-content: center;"><svg width="32" height="32" viewBox="0 0 24 24" fill="none" stroke="#FFFFFF" stroke-width="2.2" stroke-linecap="round" stroke-linejoin="round" aria-hidden="true"><circle cx="12" cy="12" r="9"></circle><circle cx="12" cy="12" r="2.5"></circle><path d="M3.5 10.5h6M14.5 10.5h6M12 14.5V21"></path></svg></button>

diff --git a/selfdrive/ui/tandem/design/valhalla2-chip-strict-unavailable.html b/selfdrive/ui/tandem/design/valhalla2-chip-strict-unavailable.html
@@ -55,7 +55,7 @@ a{color:#7DBBF9}a:hover{color:#A9D3FB}
         <div style="display: flex; flex-direction: column; gap: 3px;"><span style="font-size: 12px; font-weight: 700; letter-spacing: 1.4px; color: #8FA0B5;">ARRIVE</span><span style="font-size: 22px; font-weight: 700;">–</span></div>
         <div style="display: flex; flex-direction: column; gap: 3px;"><span style="font-size: 12px; font-weight: 700; letter-spacing: 1.4px; color: #8FA0B5;">LEFT</span><span style="font-size: 22px; font-weight: 700;">–</span></div>
         <div style="width: 2px; height: 37px; background: #23272E; flex-shrink: 0;"></div>
-        <div style="flex-grow: 1; min-width: 0; display: flex; align-items: center; gap: 12px;"><svg width="22" height="22" viewBox="0 0 24 24" fill="none" stroke="#7DBBF9" stroke-width="2" stroke-linecap="round" stroke-linejoin="round" aria-hidden="true" style="flex-shrink: 0;"><path d="M4 20L10 4M20 20L14 4M12 6v2M12 11v2M12 16v2"></path></svg><span style="font-size: 22px; font-weight: 700; white-space: nowrap; overflow: hidden; text-overflow: ellipsis;">Market Street</span></div>
+        <div style="flex-grow: 1; min-width: 0; display: flex; align-items: center; gap: 12px;"><span style="font-size: 22px; font-weight: 700; white-space: nowrap; overflow: hidden; text-overflow: ellipsis;">Market Street</span></div>
         <a href="destinations.html" style="text-decoration: none; height: 52px; padding: 0 20px; border-radius: 14px; background: #3A2026; color: #F2A7B1; font-size: 17px; font-weight: 700; display: flex; align-items: center;">End route</a>
       </div>
       <button type="button" aria-label="Disengage" style="width: 74px; height: 74px; border-radius: 18px; border: 0; background: #1F9A55; display: flex; align-items: center; justify-content: center;"><svg width="32" height="32" viewBox="0 0 24 24" fill="none" stroke="#FFFFFF" stroke-width="2.2" stroke-linecap="round" stroke-linejoin="round" aria-hidden="true"><circle cx="12" cy="12" r="9"></circle><circle cx="12" cy="12" r="2.5"></circle><path d="M3.5 10.5h6M14.5 10.5h6M12 14.5V21"></path></svg></button>

diff --git a/selfdrive/ui/tandem/design/onroadlarge-menu.html b/selfdrive/ui/tandem/design/onroadlarge-menu.html
@@ -80,7 +80,6 @@ a{color:#7DBBF9}a:hover{color:#A9D3FB}
         <button type="button" aria-label="Raise max speed" style="font-family: inherit; width: 62px; height: 80px; border: 0; background: transparent; color: #F2F5F9; font-size: 36px;">+</button>
       </div>
       <div style="flex-grow: 1; min-width: 0; height: 92px; border-radius: 23px; background: #1F2328CC; display: flex; align-items: center; justify-content: center; gap: 13px; padding: 0 21px;">
-        <svg width="36" height="36" viewBox="0 0 24 24" fill="none" stroke="#7DBBF9" stroke-width="2" stroke-linecap="round" stroke-linejoin="round" aria-hidden="true" style="flex-shrink: 0;"><path d="M4 20L10 4M20 20L14 4M12 6v2M12 11v2M12 16v2"></path></svg>
         <span class="street" style="font-size: 36px; font-weight: 700;"><span>[Current street name]</span></span>
       </div>
       <button type="button" aria-label="Disengage" style="width: 92px; height: 92px; flex-shrink: 0; border-radius: 23px; border: 0; background: #1F9A55; display: flex; align-items: center; justify-content: center;"><svg width="42" height="42" viewBox="0 0 24 24" fill="none" stroke="#FFFFFF" stroke-width="2.2" stroke-linecap="round" stroke-linejoin="round" aria-hidden="true"><circle cx="12" cy="12" r="9"></circle><circle cx="12" cy="12" r="2.5"></circle><path d="M3.5 10.5h6M14.5 10.5h6M12 14.5V21"></path></svg></button>
